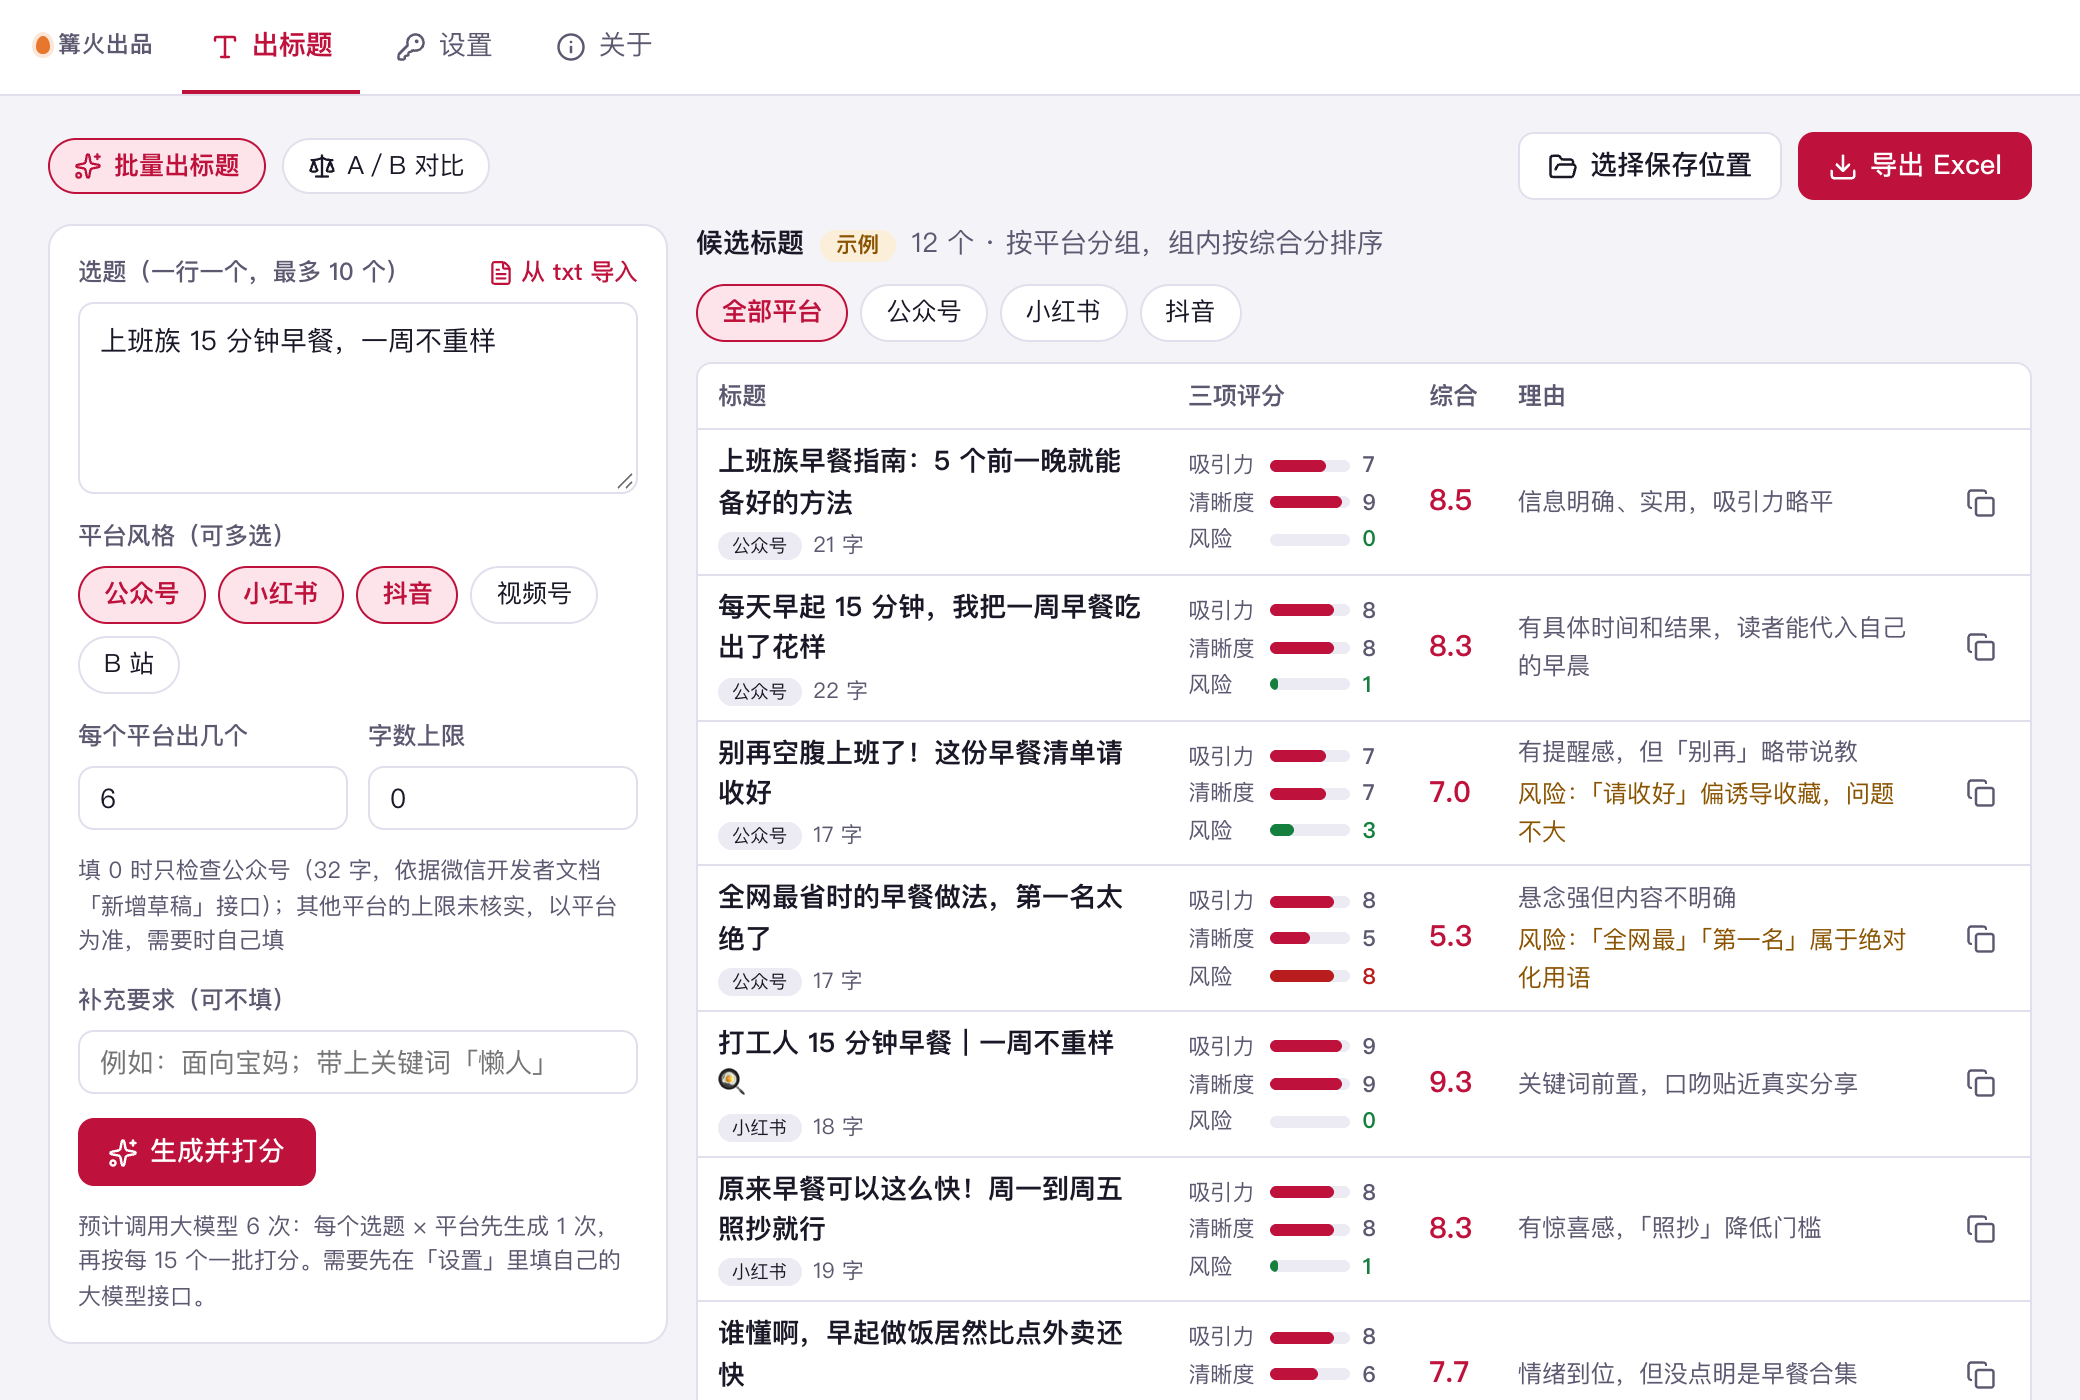
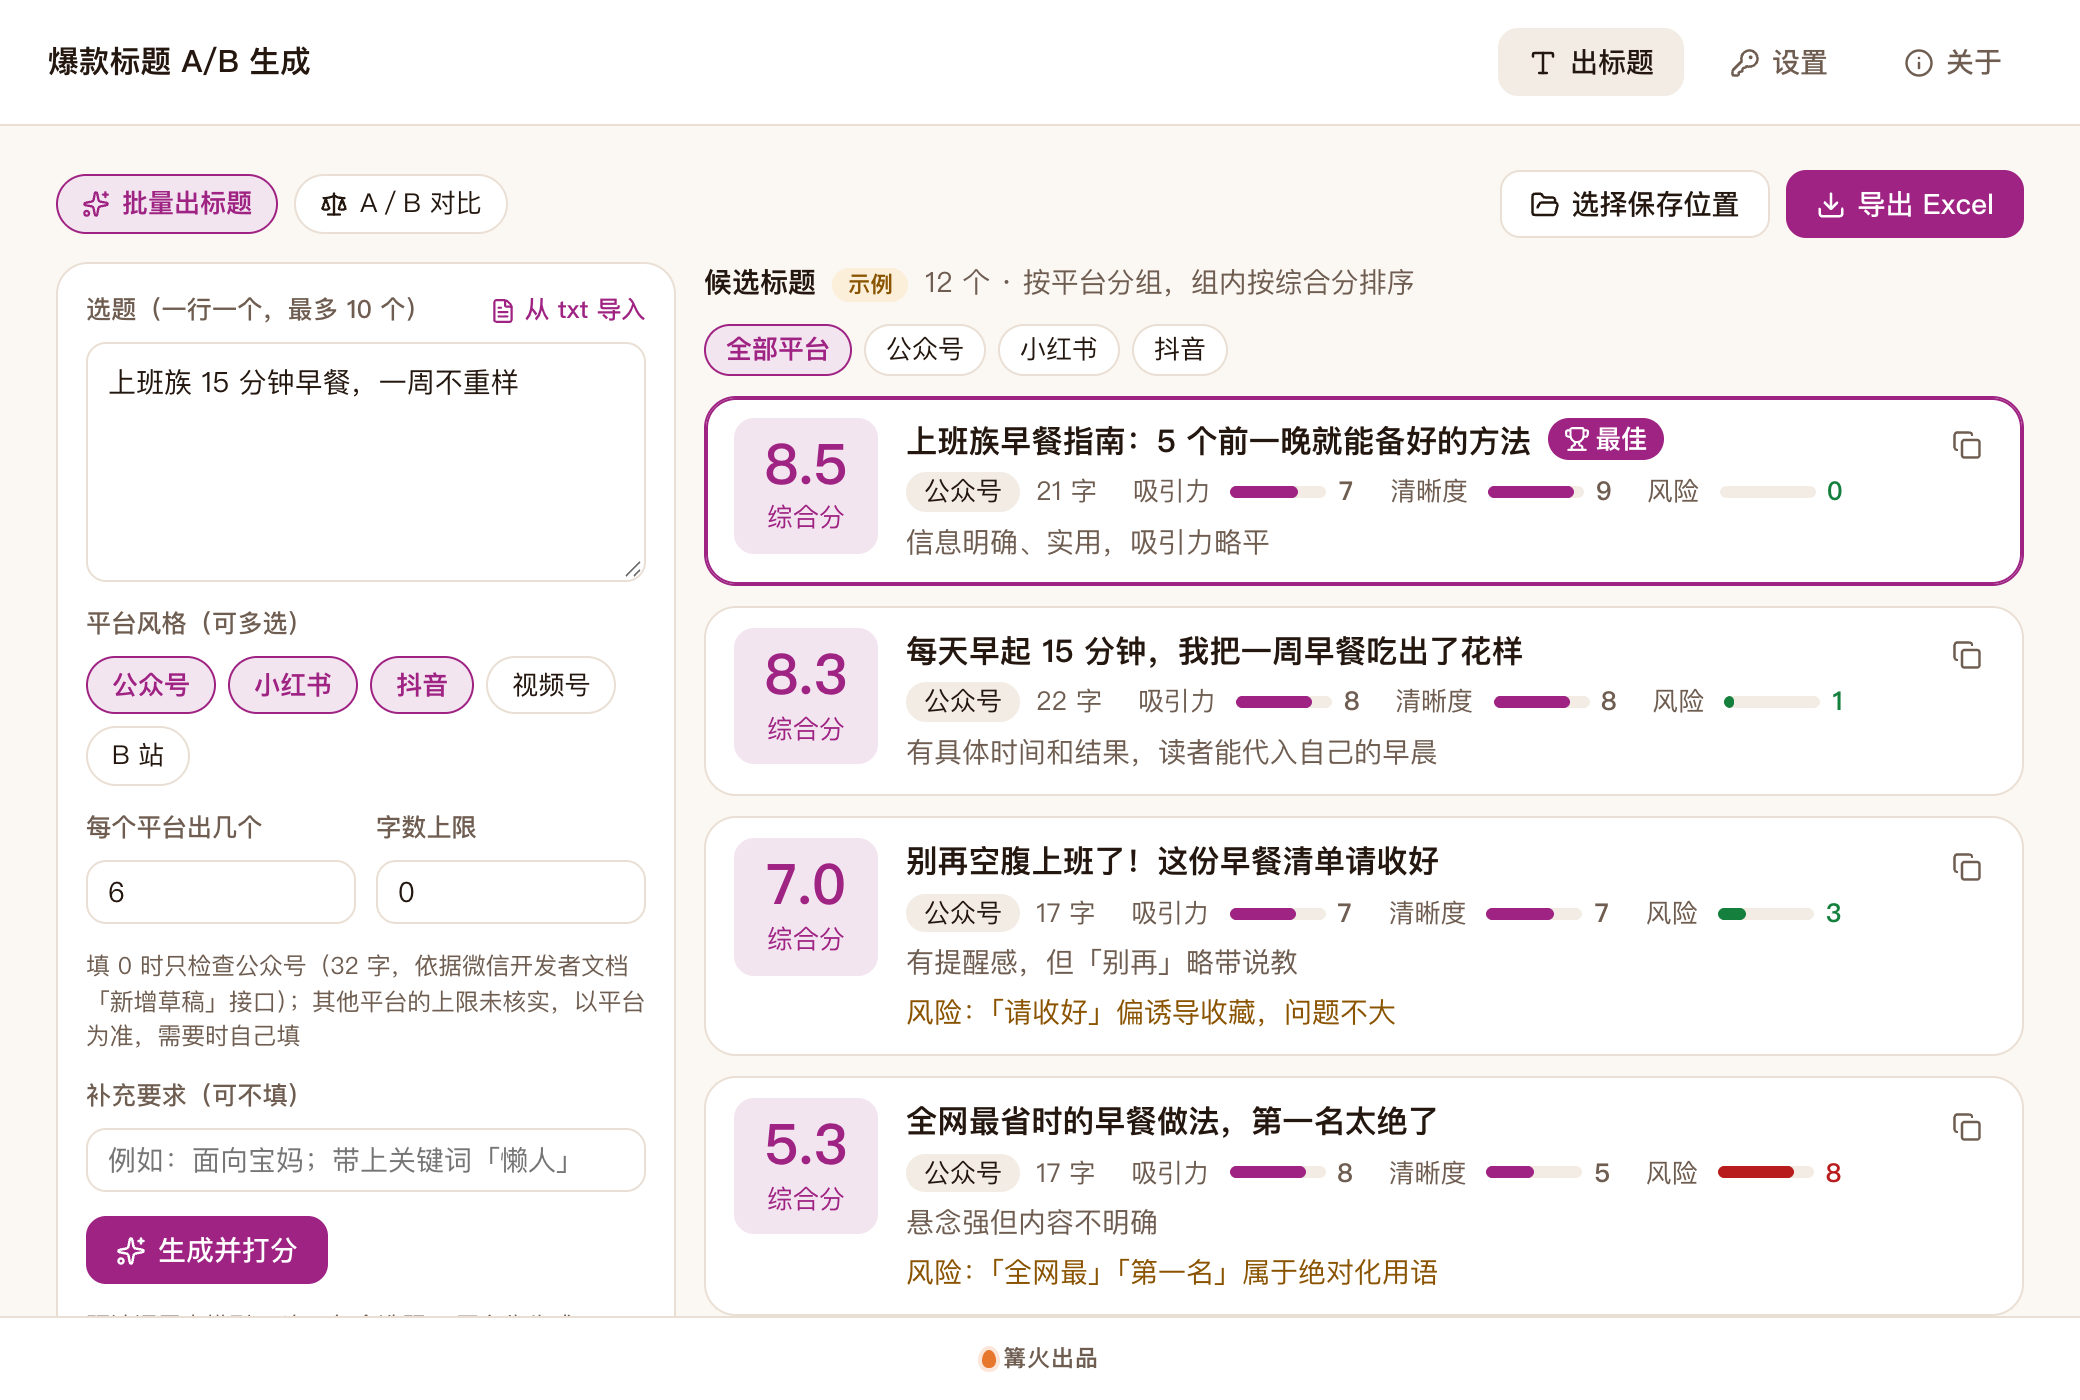
打磨界面：分数卡片与对比大字，补全说明，升至 0.2.0

diff --git a/src/tool/tool.css b/src/tool/tool.css
@@ -11,29 +11,14 @@
 .ta-topics { min-height: 96px; height: 120px; resize: vertical; }
 .ta-group { min-height: 120px; height: 150px; resize: vertical; font-size: .93em; }
 .ta-chips { display: flex; flex-wrap: wrap; gap: 6px; }
-.ta-sm { padding: 2px 10px; font-size: .86em; max-width: 220px; }
+.ta-sm { padding: 2px 10px; font-size: 13px; max-width: 220px; }
 .ta-row2 { display: grid; grid-template-columns: 1fr 1fr; gap: 10px; }
 .ta-ab-inputs { display: grid; gap: 10px; }
 .ta-result { display: flex; flex-direction: column; gap: 10px; min-width: 0; }
 .ta-result-hd { display: flex; align-items: baseline; gap: 8px; flex-wrap: wrap; }
 .ta-tag { padding: 0 8px; border-radius: 999px; background: var(--warn-soft); color: var(--warn); font-size: .8em; font-weight: 600; }
-.ta-table-wrap { border: 1px solid var(--line); border-radius: min(var(--radius), 10px); background: var(--surface); }
-.ta-table td { vertical-align: top; }
-.ta-table td.ta-title, .ta-table td.ta-reason { white-space: normal; }
-.ta-title { min-width: 180px; }
-.ta-title span { display: block; font-weight: 600; line-height: 1.5; }
-.ta-title small { display: flex; align-items: center; gap: 6px; margin-top: 3px; font-size: .8em; }
-.ta-title small i { font-style: normal; }
-.ta-scores { display: grid; grid-template-columns: auto auto; gap: 2px 8px; align-items: center; font-size: .82em; }
-.ta-scores > span { color: var(--muted); }
-.ta-over { color: var(--err); font-weight: 600; }
-.ta-reason { min-width: 160px; font-size: .9em; line-height: 1.55; color: var(--muted); }
-.ta-risknote { display: block; color: var(--warn); margin-top: 2px; }
-.ta-pf { display: inline-block; font-style: normal; padding: 0 7px; border-radius: 999px; background: var(--chip); font-size: .85em; }
-.ta-missing td { opacity: .65; }
-.ta-total { font-size: 1.08em; color: var(--primary); }
 .ta-bar { --c: var(--primary); display: inline-flex; align-items: center; gap: 6px; }
-.ta-bar i { display: block; width: 40px; height: 6px; border-radius: 3px; background: var(--chip); overflow: hidden; }
+.ta-bar i { display: block; width: 48px; height: 6px; border-radius: 3px; background: var(--chip); overflow: hidden; }
 .ta-bar s { display: block; height: 100%; border-radius: 3px; background: var(--c); }
 .ta-bar b { font-weight: 600; min-width: 1.2em; }
 .ta-bar.risk { --c: var(--ok); }
@@ -46,10 +31,37 @@
 .ta-vs-card { padding: 12px 14px; display: grid; gap: 8px; }
 .ta-vs-card.win { border-color: var(--primary); box-shadow: 0 0 0 1px var(--primary) inset; }
 .ta-vs-hd { display: flex; align-items: center; gap: 8px; }
-.ta-big { font-size: 1.7em; line-height: 1; color: var(--primary); }
+.ta-big { font-size: 40px; line-height: 1; color: var(--primary); }
 .ta-win { display: inline-flex; align-items: center; gap: 4px; padding: 1px 8px; border-radius: 999px; background: var(--primary-soft); color: var(--primary); font-size: .82em; font-weight: 600; }
 .ta-vs-rows { display: grid; grid-template-columns: auto 1fr; gap: 6px 12px; align-items: center; font-size: .9em; }
 .ta-small { font-size: .85em; }
 .ta-verdict { padding: 12px 14px; display: grid; gap: 6px; }
 .ta-verdict p { margin: 0; line-height: 1.65; }
 @media (max-width: 820px) { .ta-body { grid-template-columns: 1fr; } .ta-form { position: static; } }
+
+/* 标题卡片：左边大分数，右边标题、评分条、理由 */
+.ta-cards { list-style: none; margin: 0; padding: 0; display: grid; gap: 10px; }
+.ta-card { display: grid; grid-template-columns: 72px minmax(0, 1fr) auto; gap: 14px; align-items: start; padding: 12px 14px; border: 1px solid var(--line); border-radius: var(--radius-lg); background: var(--surface); transition: border-color .15s ease-out, box-shadow .15s ease-out; }
+.ta-card:hover { border-color: var(--line-strong); }
+.ta-card.top { border-color: var(--primary); box-shadow: 0 0 0 1px var(--primary) inset; }
+.ta-score { display: flex; flex-direction: column; align-items: center; justify-content: center; gap: 2px; padding: 8px 0; border-radius: var(--radius); background: var(--primary-soft); color: var(--primary); }
+.ta-score span { font-size: 13px; }
+.ta-total { font-size: 28px; line-height: 1.1; font-weight: 800; }
+.ta-main { min-width: 0; display: grid; gap: 6px; }
+.ta-title { display: flex; align-items: flex-start; gap: 8px; }
+.ta-title span { font-size: 1.12em; font-weight: 700; line-height: 1.5; }
+.ta-best { flex: none; display: inline-flex; align-items: center; gap: 3px; font-style: normal; padding: 1px 8px; border-radius: 999px; background: var(--primary); color: var(--on-primary); font-size: 13px; font-weight: 600; }
+.ta-tags { display: flex; align-items: center; gap: 8px; font-size: 13px; }
+.ta-tags i { font-style: normal; }
+.ta-pf { font-style: normal; padding: 0 9px; border-radius: 999px; background: var(--chip); }
+.ta-scores { display: flex; flex-wrap: wrap; align-items: center; gap: 4px 10px; font-size: 13px; }
+.ta-scores > span { color: var(--muted); }
+.ta-scores > span + span { margin-left: 0; }
+.ta-over { color: var(--err); font-weight: 600; }
+.ta-reason { margin: 0; line-height: 1.6; color: var(--muted); }
+.ta-risknote { display: block; color: var(--warn); margin-top: 2px; }
+.ta-missing { opacity: .65; }
+@media (max-width: 640px) { .ta-card { grid-template-columns: 56px minmax(0, 1fr); } .ta-card > :last-child { grid-column: 2; justify-self: start; } }
+.ta-meta { display: flex; flex-wrap: wrap; align-items: center; gap: 4px 18px; }
+.ta-card { padding: 10px 14px; }
+.ta-main { gap: 4px; }

diff --git a/src/tool/Main.tsx b/src/tool/Main.tsx
@@ -27,39 +27,43 @@ function Bar({ v, kind }: { v: number; kind?: 'risk' }) {
 }
 
 function ScoreTable({ list, limitOf, showPlatform }: { list: Scored[]; limitOf: (p: string) => number; showPlatform?: boolean }) {
+  // 每个「选题 × 平台」里综合分最高的一条标「最佳」
+  const best = new Map<string, Scored>();
+  if (showPlatform) for (const x of list) { if (x.missing) continue; const k = `${x.topic}|${x.platform}`; const o = best.get(k); if (!o || x.total > o.total) best.set(k, x); }
   return (
-    <div className="k-table-wrap ta-table-wrap">
-      <table className="k-table ta-table">
-        <thead>
-          <tr>
-            <th>标题</th><th>三项评分</th><th>综合</th><th>理由</th><th aria-label="复制" />
-          </tr>
-        </thead>
-        <tbody>
-          {list.map((x, i) => {
-            const len = titleLength(x.title);
-            const lim = limitOf(x.platform);
-            return (
-              <tr key={i} className={x.missing ? 'ta-missing' : ''}>
-                <td className="ta-title">
-                  <span>{x.title}</span>
-                  <small>{showPlatform && <em className="ta-pf">{platformOf(x.platform).name}</em>}<i className={`k-num ${lim && len > lim ? 'ta-over' : 'k-muted'}`}>{len} 字{lim && len > lim ? `，超过 ${lim} 字` : ''}</i></small>
-                </td>
-                {x.missing ? <td colSpan={2} className="k-muted">—</td> : <>
-                  <td><div className="ta-scores"><span>吸引力</span><Bar v={x.attract} /><span>清晰度</span><Bar v={x.clarity} /><span>风险</span><Bar v={x.risk} kind="risk" /></div></td>
-                  <td><b className="ta-total k-num">{x.total.toFixed(1)}</b></td>
-                </>}
-                <td className="ta-reason">
-                  {x.reason}
-                  {x.riskNote && <span className="ta-risknote">风险：{x.riskNote}</span>}
-                </td>
-                <td><CopyButton text={x.title} /></td>
-              </tr>
-            );
-          })}
-        </tbody>
-      </table>
-    </div>
+    <ol className="ta-cards">
+      {list.map((x, i) => {
+        const len = titleLength(x.title);
+        const lim = limitOf(x.platform);
+        const top = best.get(`${x.topic}|${x.platform}`) === x;
+        return (
+          <li key={i} className={`ta-card${x.missing ? ' ta-missing' : ''}${top ? ' top' : ''}`}>
+            <div className="ta-score" aria-label={x.missing ? '没有分数' : `综合分 ${x.total.toFixed(1)}`}>
+              <b className="ta-total k-num">{x.missing ? '—' : x.total.toFixed(1)}</b>
+              <span>综合分</span>
+            </div>
+            <div className="ta-main">
+              <div className="ta-title">
+                <span>{x.title}</span>
+                {top && <em className="ta-best"><Trophy size={13} />最佳</em>}
+              </div>
+              <div className="ta-meta">
+              <div className="ta-tags">
+                {showPlatform && <em className="ta-pf">{platformOf(x.platform).name}</em>}
+                <i className={`k-num ${lim && len > lim ? 'ta-over' : 'k-muted'}`}>{len} 字{lim && len > lim ? `，超过 ${lim} 字` : ''}</i>
+              </div>
+              {!x.missing && <div className="ta-scores"><span>吸引力</span><Bar v={x.attract} /><span>清晰度</span><Bar v={x.clarity} /><span>风险</span><Bar v={x.risk} kind="risk" /></div>}
+              </div>
+              <p className="ta-reason">
+                {x.reason}
+                {x.riskNote && <span className="ta-risknote">风险：{x.riskNote}</span>}
+              </p>
+            </div>
+            <CopyButton text={x.title} />
+          </li>
+        );
+      })}
+    </ol>
   );
 }
 

diff --git a/src/tool/core.ts b/src/tool/core.ts
@@ -125,10 +125,15 @@ export function buildScoreMessages(items: ScoreItem[], platform: Platform, topic
     `平台：${platform.name}（风格：${platform.style}）`,
     topic.trim() ? `内容主题：${topic.trim()}` : null,
     '给下面每个标题打三项分（0～10 的整数）：',
+    // check-zh: 忽略（写给大模型的提示词，JSON 字段名必须与解析代码一致）
     '- attract 吸引力：在该平台信息流里让人想点开的程度；',
+    // check-zh: 忽略（写给大模型的提示词，JSON 字段名必须与解析代码一致）
     '- clarity 清晰度：一眼看懂讲什么、对谁有用；',
+    // check-zh: 忽略（写给大模型的提示词，JSON 字段名必须与解析代码一致）
     '- risk 合规风险：越高越危险。绝对化用语（最、第一、100% 等）、夸大功效、编造数据或权威背书、低俗擦边、诱导点击（标题党）、医疗或投资承诺都要扣分。没有问题给 0～2。',
+    // check-zh: 忽略（写给大模型的提示词，JSON 字段名必须与解析代码一致）
     'reason 用一句话说明优缺点；riskNote 写具体风险点，没有风险写空字符串。',
+    // check-zh: 忽略（写给大模型的提示词，JSON 字段名必须与解析代码一致）
     compare ? '标题分 A、B 两组，打分标准对两组完全一致。打完分后在 summary 里用 2～3 句话比较两组整体的差别、哪组更适合该平台以及原因。' : null,
     '',
     ...items.map((x) => `[${x.id}]${x.group ? `（${x.group} 组）` : ''} ${x.title}`),

diff --git a/src/tool/flow.ts b/src/tool/flow.ts
@@ -131,6 +131,7 @@ export async function exportGenerate(io: Io, dir: string, now: Date, list: Score
 
 export async function exportCompare(io: Io, dir: string, now: Date, r: CompareResult, userLimit: number): Promise<string> {
   if (!dir) throw new Error('还没有选择保存位置');
+  // check-zh: 忽略（导出文件名，不改）
   const path = await io.join(dir, `${safeName(`标题AB对比-${stamp(now)}`)}.xlsx`);
   await io.writeFile(path, await writeXlsx(compareSheets(r, limitFn(userLimit)), '篝火 · 爆款标题 A/B 生成'));
   return path;

diff --git a/README.md b/README.md
@@ -22,11 +22,40 @@
 
 ## 怎么用
 
-<!-- 使用步骤 -->
+填一个选题、选几个平台，批量出候选标题并由大模型打分；也可以贴两组自己写的标题，比较哪组更好。
+
+**批量出标题**
+
+1. 第一次使用先到「设置」页填自己的大模型接口地址、密钥和模型名（兼容 OpenAI 接口格式），密钥只保存在本机。
+2. 在「选题」框里一行写一个选题（最多 10 个），也可以点「从 txt 导入」或把 txt 文件拖进窗口。
+3. 选平台风格：公众号、小红书、抖音、视频号、B 站，可多选。「每个平台出几个」默认 6 个，范围 3 到 20。
+4. 「字数上限」填 0 时只检查公众号（32 字，依据微信开发者文档「新增草稿」接口），其他平台上限未核实，需要时自己填。「补充要求」可写目标人群或关键词。
+5. 点「生成并打分」。每个「选题 × 平台」先生成一次，再按每 15 个一批打分，界面会预估调用次数，生成中可以随时停止。
+6. 结果是一张张标题卡片：左边大字是综合分，右边是字数、吸引力、清晰度、合规风险三条评分条和理由；每组里综合分最高的标「最佳」，风险点用橙色单独标出。点卡片右上角可复制标题。综合分 = 吸引力 × 40% + 清晰度 × 30% + (10 − 合规风险) × 30%。
+7. 点「导出 Excel」保存到「下载/爆款标题 A／B 生成」文件夹（也可点「选择保存位置」改位置）。
+
+**A／B 对比**
+
+1. 切到「A／B 对比」，两个框里分别贴 A 组和 B 组标题，每组最多 30 个；也可以导入 txt，用单独一行「A组」「B组」分组，或用一行 `---` 隔开两组。
+2. 选按哪个平台评判，内容主题可不填（写上打分更准）。
+3. 点「打分并对比」。两组放在同一次调用里打分，尺度一致，通常只调用 1 次。
+4. 结果页顶部是两组的大号平均分，较好的一组标「更好」，下面有一段文字点评和两组的逐条评分；可导出 Excel。
+
+打开时显示的是标明「示例」的结果，用来预览界面，不是真实打分。分数和风险提示由大模型给出，仅供参考，不构成法律意见。
 
 ## 验收用例
 
-<!-- 用 samples/ 里的示例文件按步骤操作，应得到的结果 -->
+| 操作 | 应得到 |
+|---|---|
+| 打开工具，不做任何操作 | 候选标题区显示带「示例」标记的 12 个标题卡片，每张卡片有综合分、三条评分条、理由 |
+| 设置页不填接口，直接点「生成并打分」 | 提示「还没有设置大模型：请到「设置」里填写接口地址、密钥和模型名」，界面不崩溃 |
+| 设置页填好接口，点「从 txt 导入」选 `samples/选题示例.txt` | 选题框出现 3 行，提示「导入 3 个选题」 |
+| 平台选公众号、小红书，每个平台出 6 个，点「生成并打分」 | 等待结束后出结果，提示「生成 12 个标题，调用大模型 N 次」；每个「选题 × 平台」各有一张标「最佳」的卡片；公众号标题超过 32 字的显示红色「超过 32 字」 |
+| 点平台标签「小红书」 | 只显示小红书的标题，按综合分从高到低排列 |
+| 切到「A／B 对比」，导入 `samples/两组标题示例.txt` | A 组 3 个、B 组 3 个，提示「导入 A 组 3 个、B 组 3 个标题」 |
+| 点「打分并对比」 | 两组各显示平均综合分，较好的一组有「更好」标记；下方有文字点评和两组逐条评分；提示「对比完成，调用大模型 1 次」 |
+| 点「导出 Excel」 | 批量页生成 `候选标题-日期-时分.xlsx`，对比页生成 `标题AB对比-日期-时分.xlsx`；表头与界面一致（批量表为「排名、平台、选题、标题、字数、吸引力……字数提示」），高风险和超字数的单元格标红 |
+| 导入只有一组标题、没有分组的 txt（在对比页） | 提示「只找到一组标题：请用单独一行「A组」「B组」分组，或用一行 --- 隔开两组」 |
 
 ## 自己编译
 

diff --git a/CHANGELOG.md b/CHANGELOG.md
@@ -1,5 +1,13 @@
 # 更新记录
 
+## 0.2.0
+
+- 界面重做：候选标题由表格改为分数卡片，左侧大字综合分，右侧三条评分条和理由，每组最高分标「最佳」。
+- 「A／B 对比」大号显示两组平均分，卡片内逐条评分。
+- 版式改为 c，主色改为 #9F2383。
+- 补全 README 的使用说明和验收用例，新增两个示例文本文件。
+- 上架文案重写，补充使用场景。
+
 ## 0.1.0
 
 - 首个版本。
